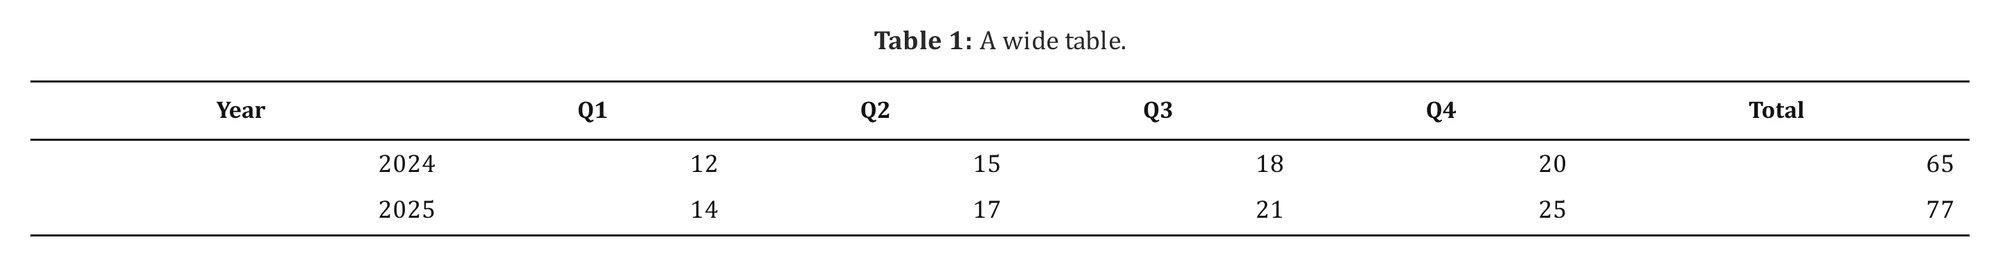
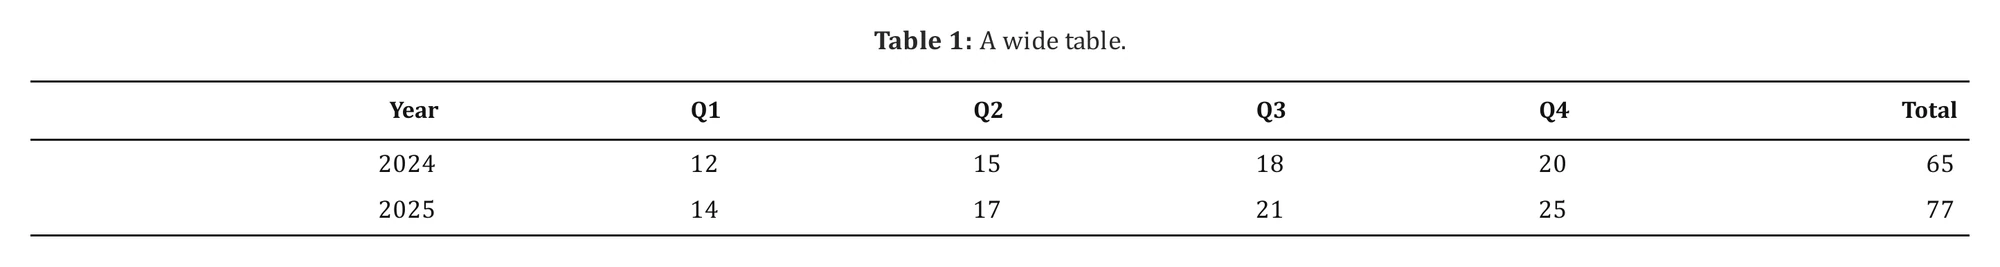
Edit chart data under the chart, table headers aligned with their columns, page crossfade, spotlight fade and new block glow

diff --git a/studio/sheet.js b/studio/sheet.js
@@ -1,7 +1,14 @@
 const SHEET = { root: null, grid: null, range: null, anchor: null, picked: new Set(), active: null, timer: 0 };
 
+function sheetMode(range) {
+  if (!range || !S.panel || S.panel.range !== range || rowGet(S.panel.model, 'src')) return null;
+  if (['table', 'pipetable'].includes(range.kind)) return 'over';
+  if (range.kind === 'chart' && rowGet(S.panel.model, 'type') !== 'function' && S.panel.model.body.some((line) => line.trim())) return 'below';
+  return null;
+}
+
 function sheetable(range) {
-  return Boolean(range && ['table', 'pipetable'].includes(range.kind) && S.panel && S.panel.range === range && !rowGet(S.panel.model, 'src'));
+  return Boolean(sheetMode(range));
 }
 
 function cellKey(r, c) {
@@ -205,7 +212,7 @@ function sheetKeys(event) {
   }
 }
 
-function sheetBar() {
+function sheetBar(mode) {
   const tool = (html, title, action, extra = '') => {
     const button = h('button', { type: 'button', class: `fmt-btn ${extra}`.trim(), html, title });
     button.addEventListener('mousedown', (event) => event.preventDefault());
@@ -227,6 +234,16 @@ function sheetBar() {
   [size, font].forEach((item) => item.addEventListener('mousedown', (event) => {
     if (event.target.tagName !== 'INPUT') event.preventDefault();
   }));
+  const shape = [
+    tool('<span class="shape">+ Row ↑</span>', 'Insert row above', () => changeShape('rowAbove')),
+    tool('<span class="shape">+ Row ↓</span>', 'Insert row below', () => changeShape('rowBelow')),
+    tool('<span class="shape">+ Col ←</span>', 'Insert column left', () => changeShape('colLeft')),
+    tool('<span class="shape">+ Col →</span>', 'Insert column right', () => changeShape('colRight')),
+    sep(),
+    tool('<span class="shape">− Row</span>', 'Delete rows', () => changeShape('delRows'), 'danger'),
+    tool('<span class="shape">− Col</span>', 'Delete columns', () => changeShape('delCols'), 'danger'),
+  ];
+  if (mode === 'below') return h('div', { class: 'fmtbar sheet-bar' }, h('span', { class: 'sheet-name', text: 'Chart data' }), sep(), ...shape);
   return h(
     'div',
     { class: 'fmtbar sheet-bar' },
@@ -244,13 +261,7 @@ function sheetBar() {
     tool(icon('alignCenter', 16), 'Centre column', () => alignColumns('center')),
     tool(icon('alignRight', 16), 'Align column right', () => alignColumns('right')),
     sep(),
-    tool('<span class="shape">+ Row ↑</span>', 'Insert row above', () => changeShape('rowAbove')),
-    tool('<span class="shape">+ Row ↓</span>', 'Insert row below', () => changeShape('rowBelow')),
-    tool('<span class="shape">+ Col ←</span>', 'Insert column left', () => changeShape('colLeft')),
-    tool('<span class="shape">+ Col →</span>', 'Insert column right', () => changeShape('colRight')),
-    sep(),
-    tool('<span class="shape">− Row</span>', 'Delete rows', () => changeShape('delRows'), 'danger'),
-    tool('<span class="shape">− Col</span>', 'Delete columns', () => changeShape('delCols'), 'danger'),
+    ...shape,
     tool(icon('close', 14), 'Clear formatting', () => restyle({ key: 'size', value: '', clear: true })),
   );
 }
@@ -288,13 +299,15 @@ function positionSheet() {
   if (!span) return;
   const div = $('#pages').children[span.page];
   if (SHEET.root.parentNode !== div) div.append(SHEET.root);
+  const below = SHEET.mode === 'below';
   markEditing(div);
-  div.classList.add('sheeting');
+  if (!below) div.classList.add('sheeting');
   const page = S.pages[span.page];
+  const last = (S.regions[SHEET.range.id] || []).slice(-1)[0] || span;
   SHEET.root.style.left = `${marginPt() * S.scale}px`;
   SHEET.root.style.width = `${(page.w - 2 * marginPt()) * S.scale}px`;
-  SHEET.root.style.top = `${span.y0 * S.scale}px`;
-  SHEET.root.style.minHeight = `${(span.y1 - span.y0) * S.scale}px`;
+  SHEET.root.style.top = `${(below ? last.y1 + 14 : span.y0) * S.scale}px`;
+  SHEET.root.style.minHeight = below ? '0' : `${(span.y1 - span.y0) * S.scale}px`;
   SHEET.root.style.fontFamily = docFont();
   SHEET.root.style.fontSize = `${(parseFloat(S.settings['font-size']) || 12) * 0.92 * S.scale}px`;
   SHEET.root.style.setProperty('--pt', `${S.scale}px`);
@@ -307,9 +320,10 @@ function openSheet(range) {
   if (!grid.rows.length) return;
   SHEET.grid = grid;
   SHEET.range = range;
+  SHEET.mode = sheetMode(range);
   SHEET.picked = new Set();
   SHEET.active = null;
-  SHEET.root = h('div', { class: 'sheet' }, sheetBar(), h('div', { class: 'sheet-scroll' }, h('table', { class: 'sheet-table' })));
+  SHEET.root = h('div', { class: `sheet${SHEET.mode === 'below' ? ' below' : ''}` }, sheetBar(SHEET.mode), h('div', { class: 'sheet-scroll' }, h('table', { class: 'sheet-table' })));
   const table = SHEET.root.querySelector('table');
   table.addEventListener('input', () => sheetCommit());
   table.addEventListener('keydown', sheetKeys);

diff --git a/studio/press.css b/studio/press.css
@@ -2935,3 +2935,77 @@ body.page-dragging * {
   width: 34px;
   height: 34px;
 }
+
+.page-ghost {
+  position: absolute;
+  inset: 0;
+  z-index: 1;
+  width: 100%;
+  height: 100%;
+  pointer-events: none;
+  animation: ghost-out 240ms ease-out both;
+}
+
+@keyframes ghost-out {
+  to { opacity: 0; }
+}
+
+.editor.rich.inplace,
+.editor,
+.sheet:not(.below) {
+  animation: spot-in 240ms ease-out both;
+}
+
+@keyframes spot-in {
+  from { box-shadow: 0 0 0 0 rgb(var(--accent-rgb) / 0), 0 0 0 200vmax rgb(var(--shadow, 12 31 24) / 0); }
+}
+
+.sheet.below {
+  z-index: 6;
+  padding: 8px 10px 10px 22px;
+  box-shadow: 0 0 0 1px rgb(var(--accent-rgb) / 0.35), 0 18px 40px -20px rgb(0 0 0 / 0.45);
+  animation: sheet-drop 220ms cubic-bezier(0.2, 0.9, 0.3, 1.1) both;
+}
+
+.sheet.below .sheet-bar {
+  position: static;
+  margin: 0 0 8px -12px;
+  padding: 0;
+  background: transparent;
+  box-shadow: none;
+  border: 0;
+}
+
+@keyframes sheet-drop {
+  from { opacity: 0; translate: 0 -8px; }
+}
+
+.sheet .sheet-name {
+  padding: 0 8px;
+  font-family: var(--f-hand);
+  font-size: 18px;
+  font-weight: 700;
+  color: var(--green);
+  white-space: nowrap;
+}
+
+.hit.fresh {
+  animation: block-glow 1.3s ease-out both;
+}
+
+@keyframes block-glow {
+  0% { background: rgb(var(--accent-rgb) / 0.22); outline: 2px solid rgb(var(--accent-rgb) / 0.7); outline-offset: -1px; }
+  100% { background: transparent; outline: 2px solid rgb(var(--accent-rgb) / 0); outline-offset: -1px; }
+}
+
+.data-hint {
+  display: flex;
+  gap: 8px;
+  align-items: center;
+  padding: 10px 12px;
+  border-radius: 10px;
+  background: rgb(var(--accent-rgb) / 0.07);
+  color: var(--green);
+  font-size: 13.5px;
+  font-weight: 600;
+}

diff --git a/studio/studio.js b/studio/studio.js
@@ -305,6 +305,10 @@ async function applyResult(result, sent) {
   if (!localStorage.getItem('studio.toured')) setTimeout(() => startTour(), 600);
   if (S.focusNew && S.sel) {
     S.focusNew = false;
+    S.glow = S.sel.id;
+    setTimeout(() => {
+      S.glow = null;
+    }, 1400);
     if (TEXT_KINDS.has(S.sel.kind) || isRichText(S.sel)) openEditor(S.sel, S.focusSelectAll !== false);
     S.focusSelectAll = true;
     scrollToRange(S.sel);
@@ -353,7 +357,15 @@ function layout() {
     div.style.width = `${page.w * S.scale}px`;
     div.style.height = `${page.h * S.scale}px`;
     const image = div.firstChild;
-    if (image.getAttribute('src') !== page.url) image.src = page.url;
+    if (image.getAttribute('src') !== page.url) {
+      if (image.getAttribute('src') && image.complete) {
+        const ghost = image.cloneNode();
+        ghost.className = 'page-ghost';
+        div.append(ghost);
+        setTimeout(() => ghost.remove(), 260);
+      }
+      image.src = page.url;
+    }
     div.querySelectorAll('.hit, .tool, .ins, .grip, .ins-marker, .reflow, .mask, .page-add, .page-del, .page-tool, .page-num, .page-design, .cover-toggle').forEach((node) => node.remove());
     if (S.arrivePage === i && S.pages.length) {
       S.arrivePage = null;
@@ -641,6 +653,7 @@ function drawHits() {
         },
       });
       if (S.multi && S.multi.has(range.start)) hit.classList.add('multi');
+      if (S.glow !== undefined && S.glow !== null && S.glow === range.id) hit.classList.add('fresh');
       div.append(hit);
     });
   });

diff --git a/studio/panels.js b/studio/panels.js
@@ -247,10 +247,7 @@ function chartPanel(model, body, range) {
         },
       }));
     } else if (model.body.some((item) => item.trim())) {
-      dataBody.push(dataGrid(model.body, (lines) => {
-        model.body = lines;
-        commitPanel(700);
-      }));
+      dataBody.push(h('div', { class: 'data-hint', html: `${icon('table', 15)}<span>Edit the data under the chart</span>` }));
     } else {
       dataBody.push(h('div', { class: 'inline-row' },
         fileChooser({ value: '', accept: '.csv,.tsv,.xlsx,.json', label: 'Choose data file', onPick: (path) => {
@@ -262,6 +259,7 @@ function chartPanel(model, body, range) {
           model.body = ['| x | y |', '|---|---|', '| 1 | 2 |', '| 2 | 4 |'];
           commitPanel(250);
           renderPanel();
+          if (typeof openSheet === 'function') openSheet(S.panel.range);
         } }),
       ));
     }

diff --git a/engine/essay.css b/engine/essay.css
@@ -162,9 +162,11 @@ table.data th {
   line-height: 1.3;
   padding: 5pt 5pt;
   vertical-align: bottom;
-  text-align: center;
+  text-align: left;
   border-bottom: 0.8pt solid var(--rule);
 }
+table.data th.r { text-align: right; }
+table.data th.c, table.data th.sp { text-align: center; }
 table.data td { padding: 2.6pt 6pt; }
 figure.tbl table.data[style*="auto"] td, figure.tbl table.data[style*="auto"] th { padding-left: 16pt; padding-right: 16pt; }
 table.data td.r, table.data td.c, table.data td.k { white-space: nowrap; }

diff --git a/engine/lib/parse.py b/engine/lib/parse.py
@@ -1366,7 +1366,7 @@ class Compiler(*KITS):
         if header_on:
             out.append("<thead>")
             for r in range(head_rows):
-                tags = [merged(r, i, "th") for i in range(width_cols)]
+                tags = [merged(r, i, "th", classes[i] if i < len(classes) else "") for i in range(width_cols)]
                 out.append("<tr>" + "".join(f"{t}{self.inline(rows[r][i], line)}</th>" for i, t in enumerate(tags) if t) + "</tr>")
             out.append("</thead>")
         out.append("<tbody>")
